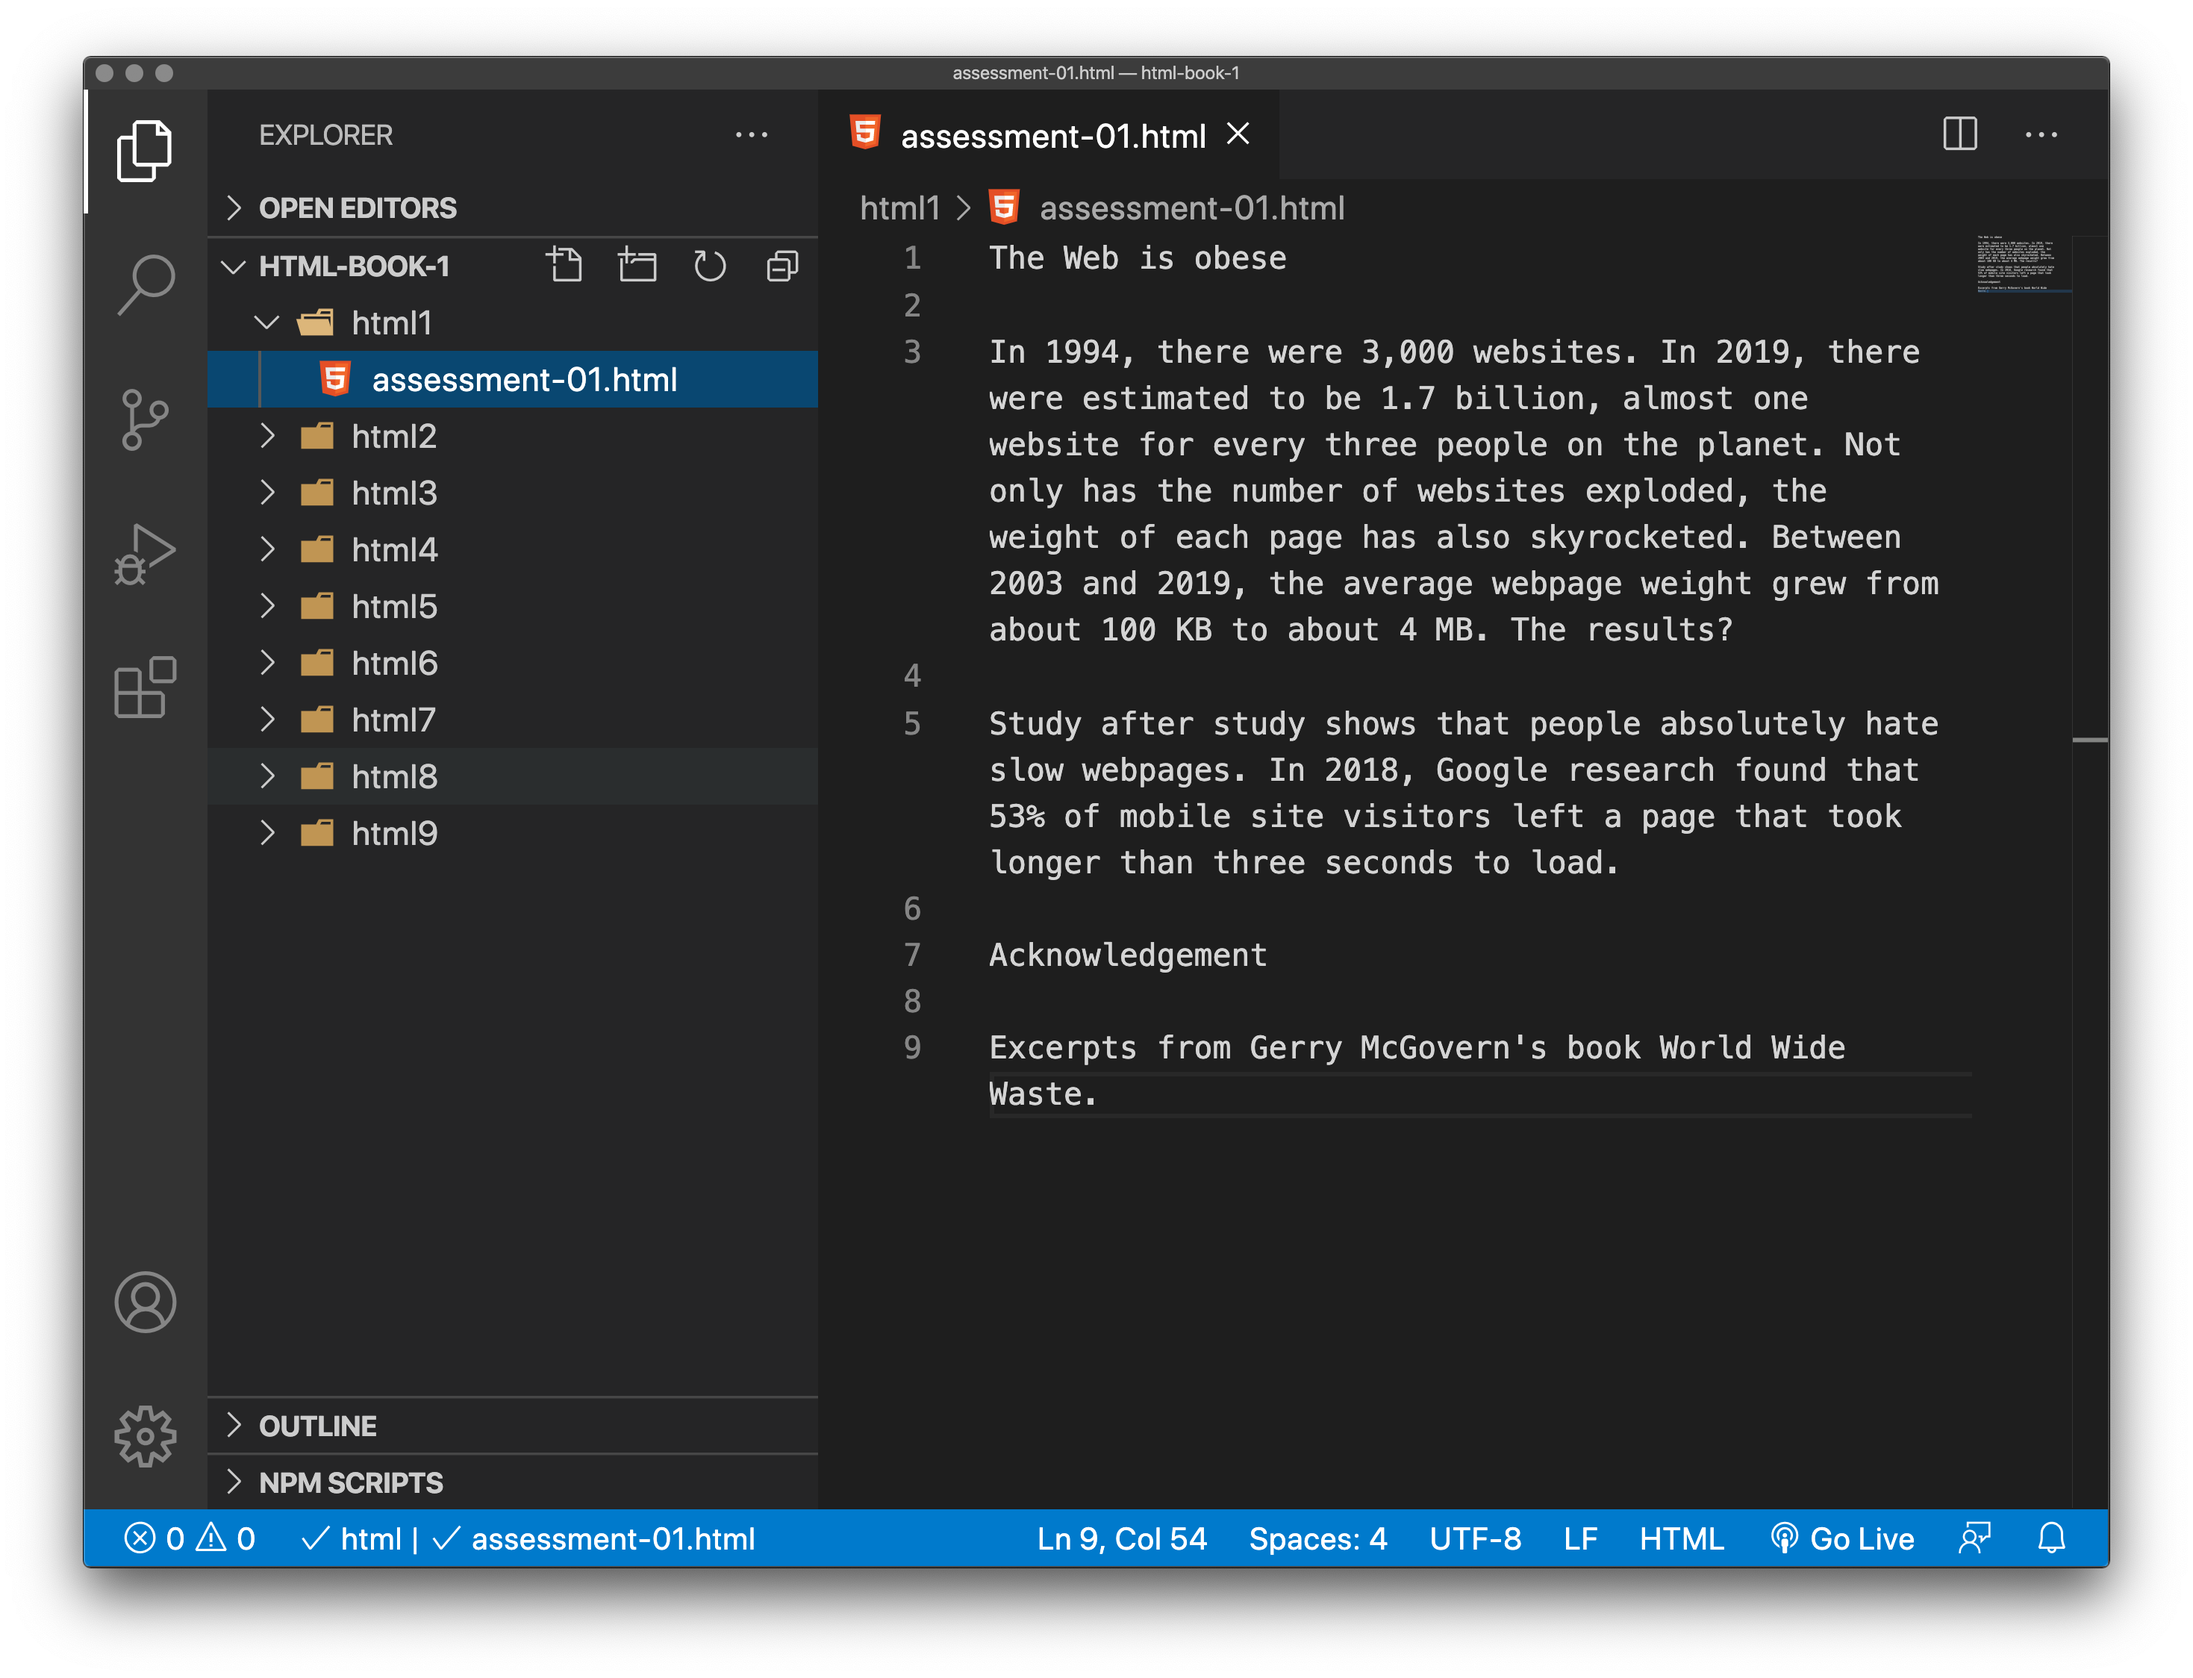
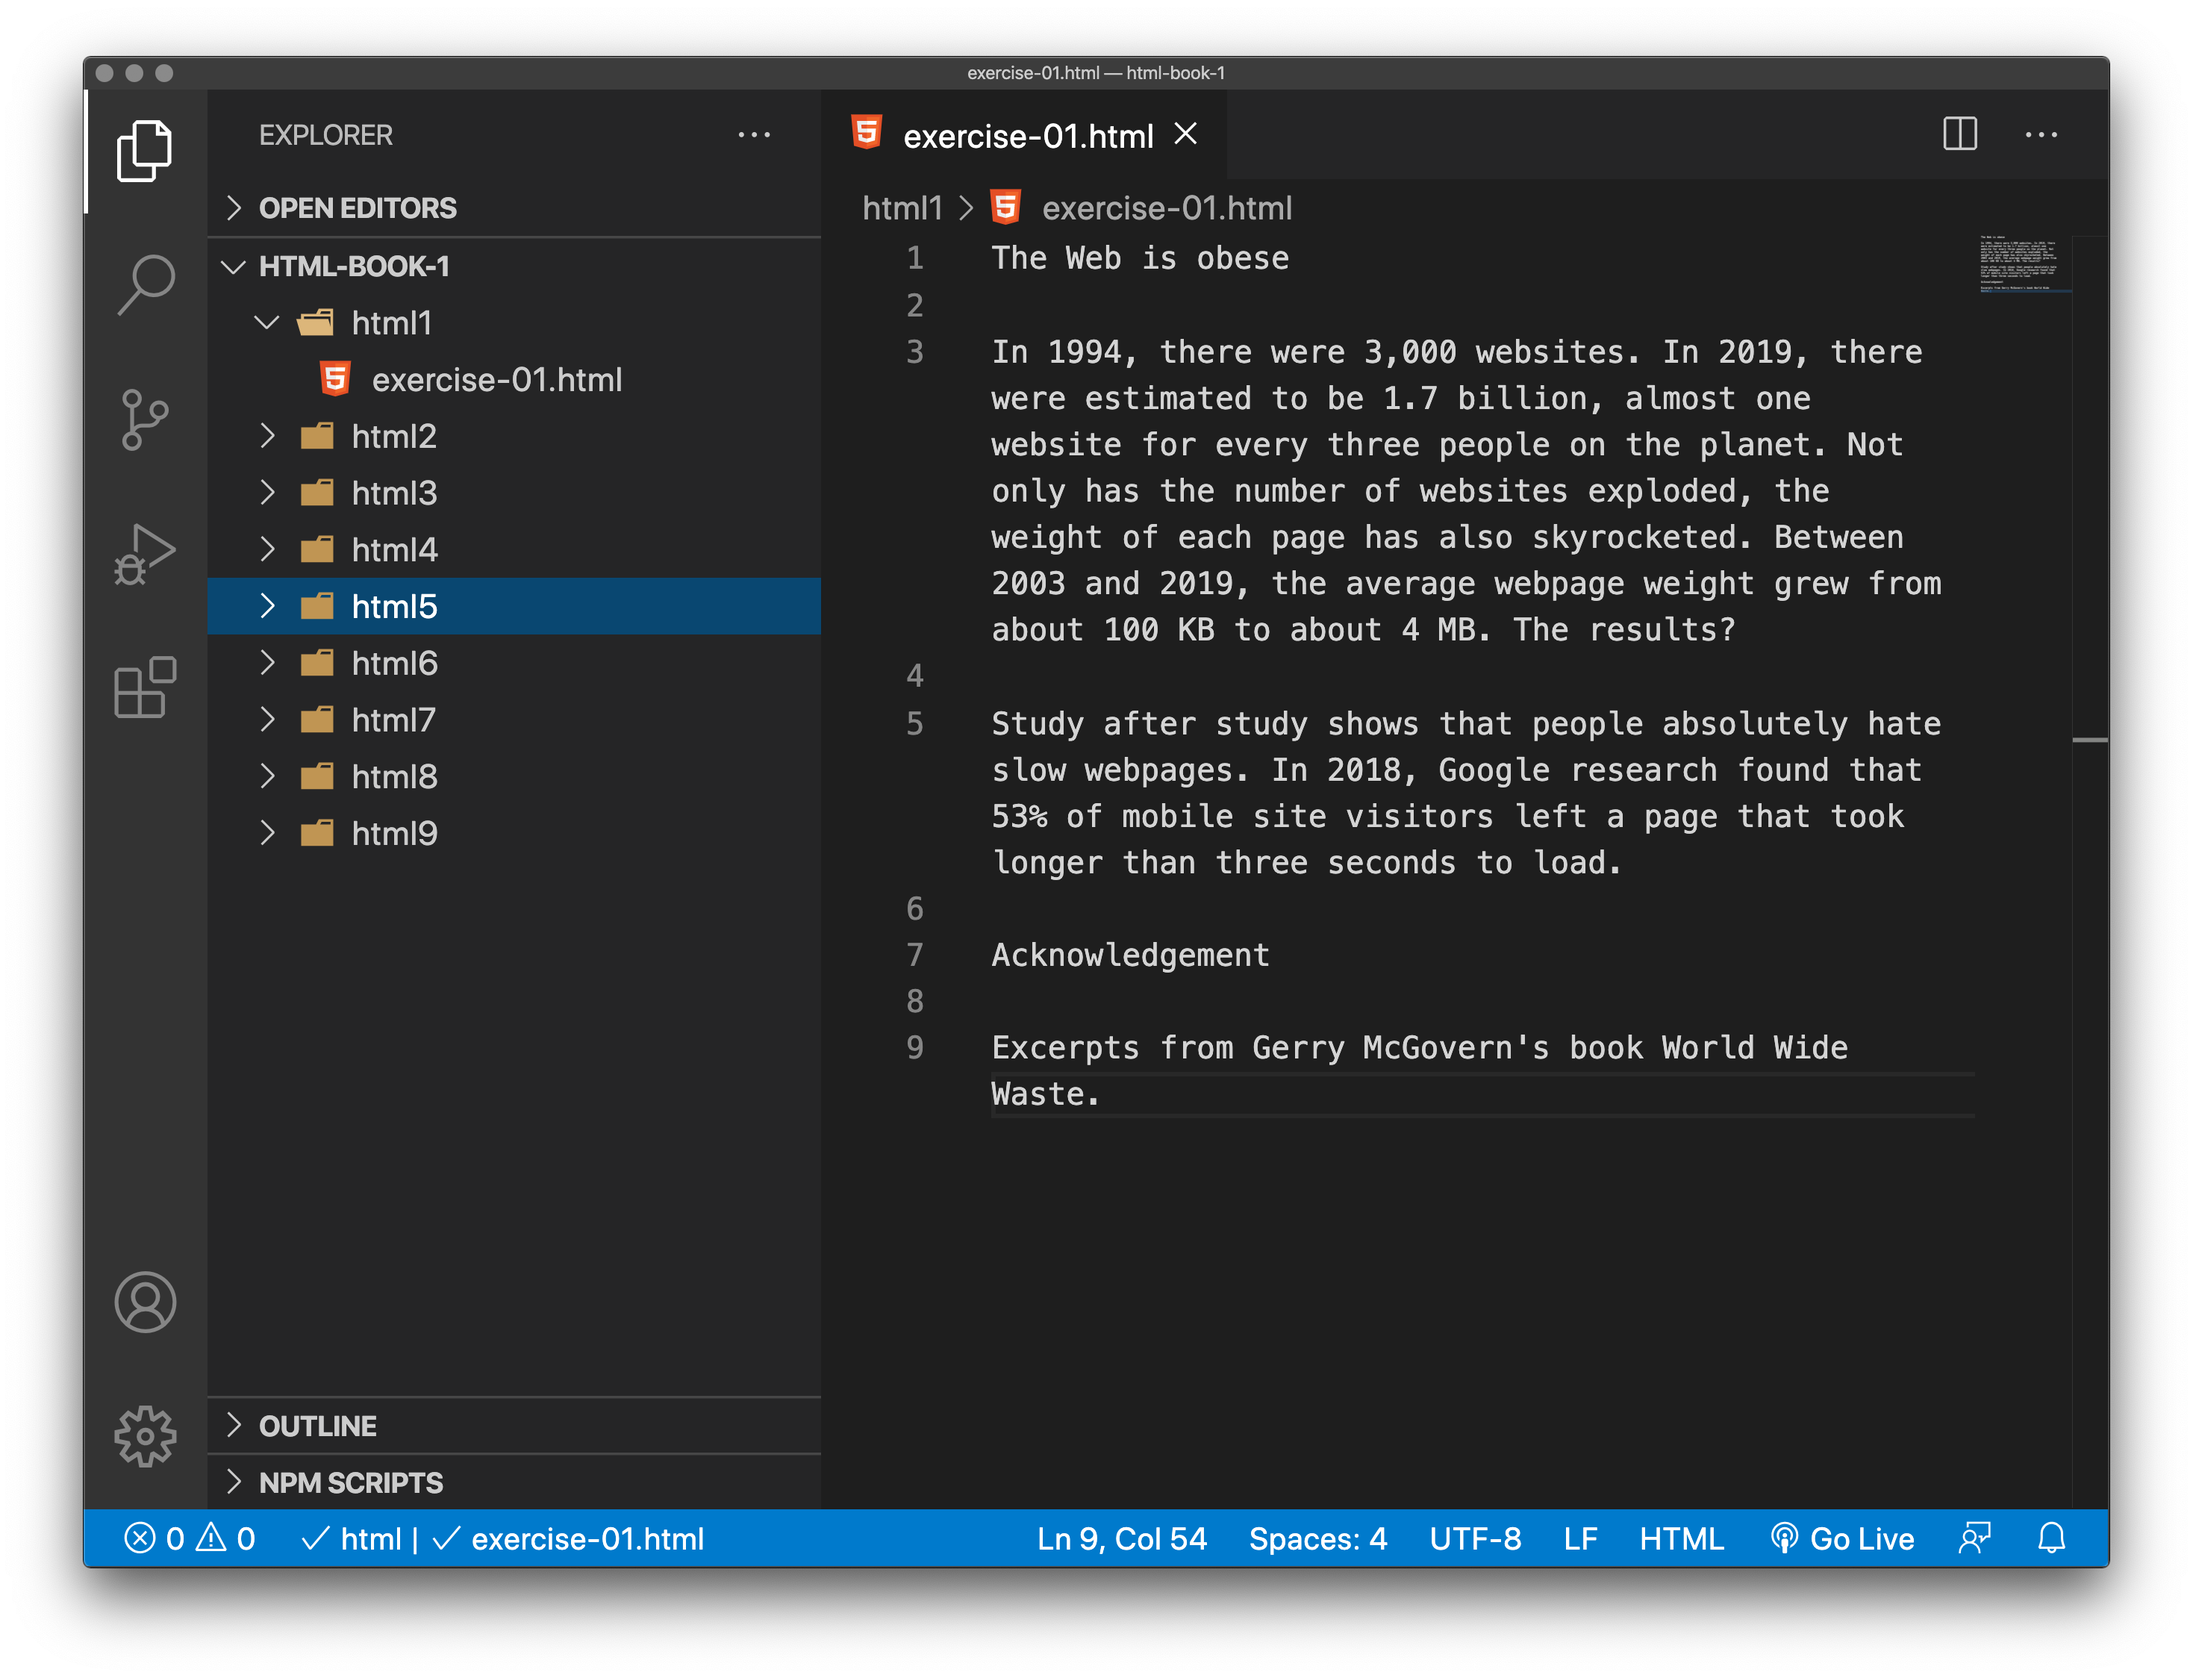
page 1

diff --git a/HTML/html01/01-introduction.md b/HTML/html01/01-introduction.md
@@ -106,7 +106,7 @@ Let's further explore our paragraph element from the previous section:
 
 <!-- div class="video" -->
 
-## Exercise - Syntax of HTML elements
+## To do - Syntax of HTML elements
 
 > Watch the following short video for a deeper understanding of the syntax.
 
@@ -117,14 +117,16 @@ Let's further explore our paragraph element from the previous section:
 
 <!-- div class="exercise" -->
 
-## Exercise - Assessment 1
+## Exercise 1
 
 To mark-up a simple document with html heading and paragraph elements to create some structure to the page in the browser.
 
 
 ### Task 1
 
-> Open your **Assessment 1** folder in your editor.
+> Open the `html1` folder in your editor.
+
+- Open `exercise-01.html`
 
 
 <figure>
@@ -134,7 +136,7 @@ The Visual Studio Code (VSC)editor window.
 </figcaption>
 </figure>
 
-Our file (`assessment-01.html`) contains excerpts from [Gerry McGovern’s book World Wide Waste](https://gerrymcgovern.com/worldwidewaste/). It consists of a main heading, two paragraphs, a sub-heading and another paragraph.
+Our file (`exercise-01.html`) contains excerpts from [Gerry McGovern’s book World Wide Waste](https://gerrymcgovern.com/worldwidewaste/). It consists of a main heading, two paragraphs, a sub-heading and another paragraph.
 
 ```
 The Web is obese
@@ -154,7 +156,7 @@ Excerpts from Gerry McGovern's book World Wide Waste.
 
 > Safari on Mac will be fine, Edge on PC, sort of fine, Internet Explorer - avoid.
 
-- Drag `assessment-01.html` from the `html01` folder on to the browser window.
+- Drag `exercise-01.html` from the `html01` folder on to the browser window.
 
 - The page displays but there is no structure to the page.
 
@@ -182,13 +184,13 @@ We therefore need to give our content structural markup.
 
 <!-- div class="exercise" -->
 
-## Exercise - Assessment 1 continued
+## Exercise 1 continued
 
 - Creating a Level 1 heading
 
 ### Task 1
 
-> Return to `assessment-01.html`
+> Return to `exercise-01.html`
 
 - In the editor window add the `<h1>` tag to the main heading. Putting the closing tag at the end.
 
@@ -205,7 +207,7 @@ Select Play to reload the page in the browser window. You should now have a dist
 
 <!-- div class="exercise" -->
 
-## Exercise - Assessment 1 continued
+## Exercise 1 continued
 
 - Adding paragraphs and a Level Two heading
 
@@ -250,7 +252,7 @@ Select Play to reload the page in the browser window. You should now have a dist
 
 ## Syntax highlighting
 
-The editor includes *syntax highlighting* which you can see adds colour to the html elements, allowing you to spot them , and errors easier.
+A good IDE like Visual Studio Code includes *syntax highlighting* which you can see adds colour to the html elements, allowing you to spot them , and errors easier.
 
 <img src="media/01-syntax-highlighting.png" alt="Illustration of syntax highlighting" width="">
 
@@ -264,7 +266,7 @@ As things gets more complex you will see that further `highlighting` is added an
 
 ### Task 1
 
-- Copy and paste the text (with or without the coding) from `index.html` into a blank MSWord document. Save it as a `.docx` file. 
+- Copy and paste the text (with the coding) from `exercise-01.html` into a blank MSWord document. Save it as a `.docx` file. 
 
 ### Task 2
 
